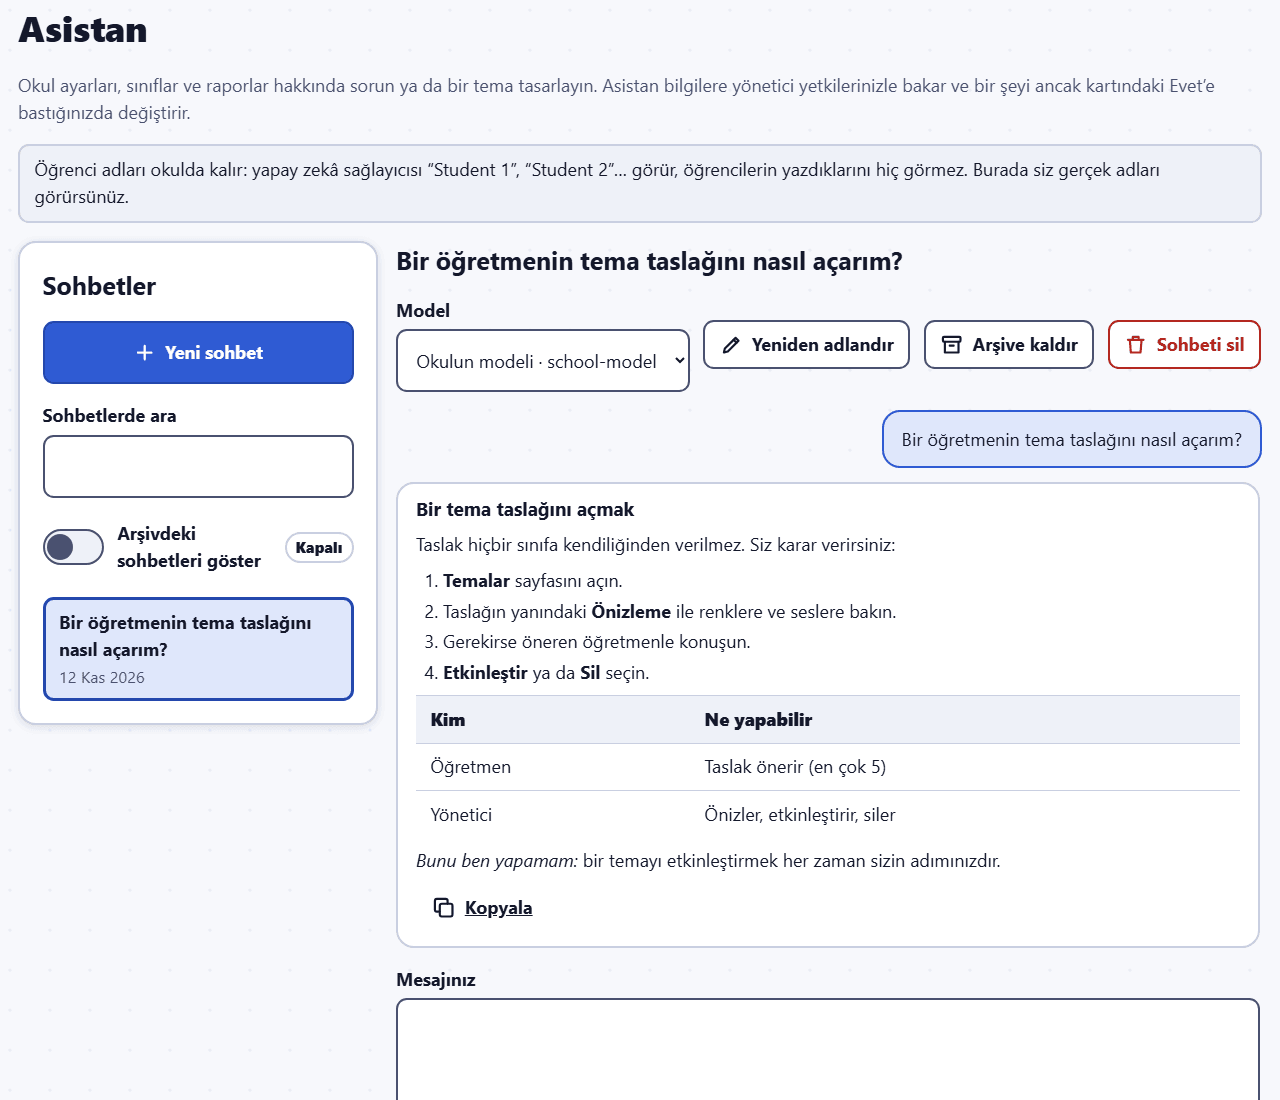
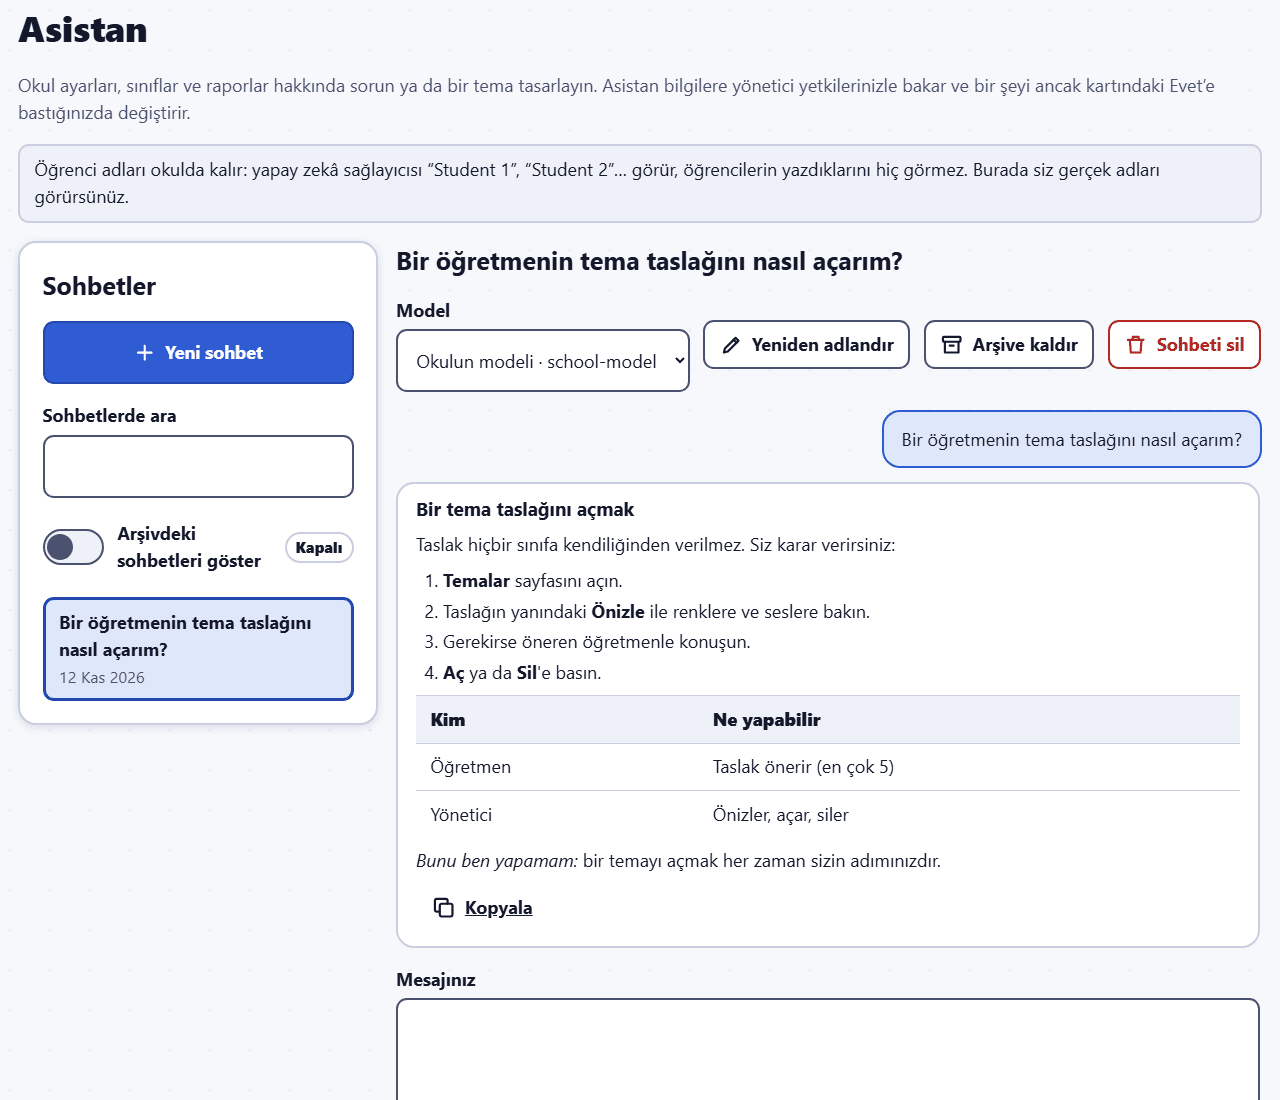
S27: guide screenshots: review fixes
- TR Admin -> Assistant answer names the real buttons (Önizle, Aç), as in the
  TR admin guide; picture re-taken.
- The teacher and admin chat ids come from the create response, so `finally`
  deletes the chat even when a later step fails; the fake-camera context is
  closed in `finally` too.

Changed region(s): [[0.5312, 0.6491, 0.7812, 0.8036], [0.5, 0.5255, 0.6875, 0.5873], [0.3438, 0.5873, 0.5, 0.6182]]

diff --git a/e2e/docs-screenshots.spec.ts b/e2e/docs-screenshots.spec.ts
@@ -15,7 +15,7 @@ import fs from 'node:fs';
 import path from 'node:path';
 import { randomUUID } from 'node:crypto';
 import sharp from 'sharp';
-import { expect, test, type Browser, type Page } from '@playwright/test';
+import { expect, test, type Browser, type BrowserContext, type Page, type Response } from '@playwright/test';
 import { translate, type Locale, type MessageKey } from '../src/shared/i18n/index.ts';
 // Every dictionary registered, staff strings included (S23a, D-182).
 import '../tests/messages.ts';
@@ -24,6 +24,9 @@ import '../src/shared/i18n/areas/assistantChat.ts';
 import { FAKE_KEYS, FakeProvider } from '../tests/ai-fake.ts';
 import { lastToolResult, script } from '../tests/assistant-fake.ts';
 import { api, ensurePin, login, openDock, PASSWORD, PIN, studentLinkUrl } from './helpers.ts';
+
+/** The POST that "New chat" sends (its response carries the new chat's id). */
+const isCreateChat = (r: Response) => r.request().method() === 'POST' && new URL(r.url()).pathname === '/api/teacher/assistant-chat/chats';
 
 const IMG_ROOT = path.resolve(import.meta.dirname, '../docs/guides/img');
 
@@ -172,6 +175,7 @@ for (const lang of ['en', 'tr'] as const) {
     let videoOn = false;
     let draftKey: string | null = null;
     let adminChatId: string | null = null;
+    let camPhone: BrowserContext | null = null;
 
     try {
       // ---------------------------------------------------------------- teacher area
@@ -351,9 +355,11 @@ for (const lang of ['en', 'tr'] as const) {
           },
         ]);
         await tp.goto('/teacher/ai-assistant');
+        // The id comes from the create response, so `finally` deletes the chat even if a later step fails.
+        const teacherCreated = tp.waitForResponse(isCreateChat);
         await tp.getByTestId('assistant-new-chat').click();
+        chatId = ((await (await teacherCreated).json()) as { id: string }).id;
         await expect(tp.getByTestId('assistant-suggestions')).toBeVisible();
-        chatId = new URL(tp.url()).searchParams.get('chat');
         const composer = tp.getByLabel(T('assistantChat.composer' as MessageKey));
         await composer.fill(text.ask);
         await tp.getByTestId('assistant-send').click();
@@ -377,7 +383,7 @@ for (const lang of ['en', 'tr'] as const) {
             ? {
                 ask: 'Bir öğretmenin tema taslağını nasıl açarım?',
                 answer:
-                  '## Bir tema taslağını açmak\n\nTaslak hiçbir sınıfa kendiliğinden verilmez. Siz karar verirsiniz:\n\n1. **Temalar** sayfasını açın.\n2. Taslağın yanındaki **Önizleme** ile renklere ve seslere bakın.\n3. Gerekirse öneren öğretmenle konuşun.\n4. **Etkinleştir** ya da **Sil** seçin.\n\n| Kim | Ne yapabilir |\n|---|---|\n| Öğretmen | Taslak önerir (en çok 5) |\n| Yönetici | Önizler, etkinleştirir, siler |\n\n*Bunu ben yapamam:* bir temayı etkinleştirmek her zaman sizin adımınızdır.',
+                  '## Bir tema taslağını açmak\n\nTaslak hiçbir sınıfa kendiliğinden verilmez. Siz karar verirsiniz:\n\n1. **Temalar** sayfasını açın.\n2. Taslağın yanındaki **Önizle** ile renklere ve seslere bakın.\n3. Gerekirse öneren öğretmenle konuşun.\n4. **Aç** ya da **Sil**\'e basın.\n\n| Kim | Ne yapabilir |\n|---|---|\n| Öğretmen | Taslak önerir (en çok 5) |\n| Yönetici | Önizler, açar, siler |\n\n*Bunu ben yapamam:* bir temayı açmak her zaman sizin adımınızdır.',
               }
             : {
                 ask: 'How do I enable a teacher’s theme draft?',
@@ -386,9 +392,10 @@ for (const lang of ['en', 'tr'] as const) {
               };
         script(fake, [() => ({ text: how.answer })]);
         await ap.goto('/admin/ai-assistant');
+        const adminCreated = ap.waitForResponse(isCreateChat);
         await ap.getByTestId('assistant-new-chat').click();
+        adminChatId = ((await (await adminCreated).json()) as { id: string }).id;
         await ap.waitForURL(/[?&]chat=/u);
-        adminChatId = new URL(ap.url()).searchParams.get('chat');
         await ap.getByLabel(T('assistantChat.composer' as MessageKey)).fill(how.ask);
         await ap.getByTestId('assistant-send').click();
         const adminAnswer = ap.getByTestId('assistant-message-assistant').last();
@@ -739,7 +746,8 @@ for (const lang of ['en', 'tr'] as const) {
         expect((await api(ap, 'PUT', '/api/admin/module-policies/media.evidenceVideo', { availability: 'enabled' })).status).toBe(200);
         videoOn = true;
         {
-          const camPhone = await browser.newContext({ viewport: { width: 390, height: 844 }, deviceScaleFactor: 1, hasTouch: true, isMobile: true, permissions: ['camera', 'microphone'] });
+          // Closed in `finally` too, so a failed step does not leave the fake camera open.
+          camPhone = await browser.newContext({ viewport: { width: 390, height: 844 }, deviceScaleFactor: 1, hasTouch: true, isMobile: true, permissions: ['camera', 'microphone'] });
           await camPhone.addInitScript((l) => localStorage.setItem('cc.studentLocale', l), lang);
           const vp = await camPhone.newPage();
           await vp.goto(url);
@@ -766,9 +774,11 @@ for (const lang of ['en', 'tr'] as const) {
           await recorder.getByRole('button', { name: T('student.audio.stop'), exact: true }).click();
           await expect(recorder).toHaveAttribute('data-phase', 'recorded');
           await camPhone.close();
+          camPhone = null;
         }
       }
     } finally {
+      await camPhone?.close();
       // AI tools are off in the demo school; switching them off also ends the example connection (D-160).
       if (chatId) await api(tp, 'DELETE', `/api/teacher/assistant-chat/chats/${chatId}`);
       if (adminChatId) await api(ap, 'DELETE', `/api/teacher/assistant-chat/chats/${adminChatId}`);
